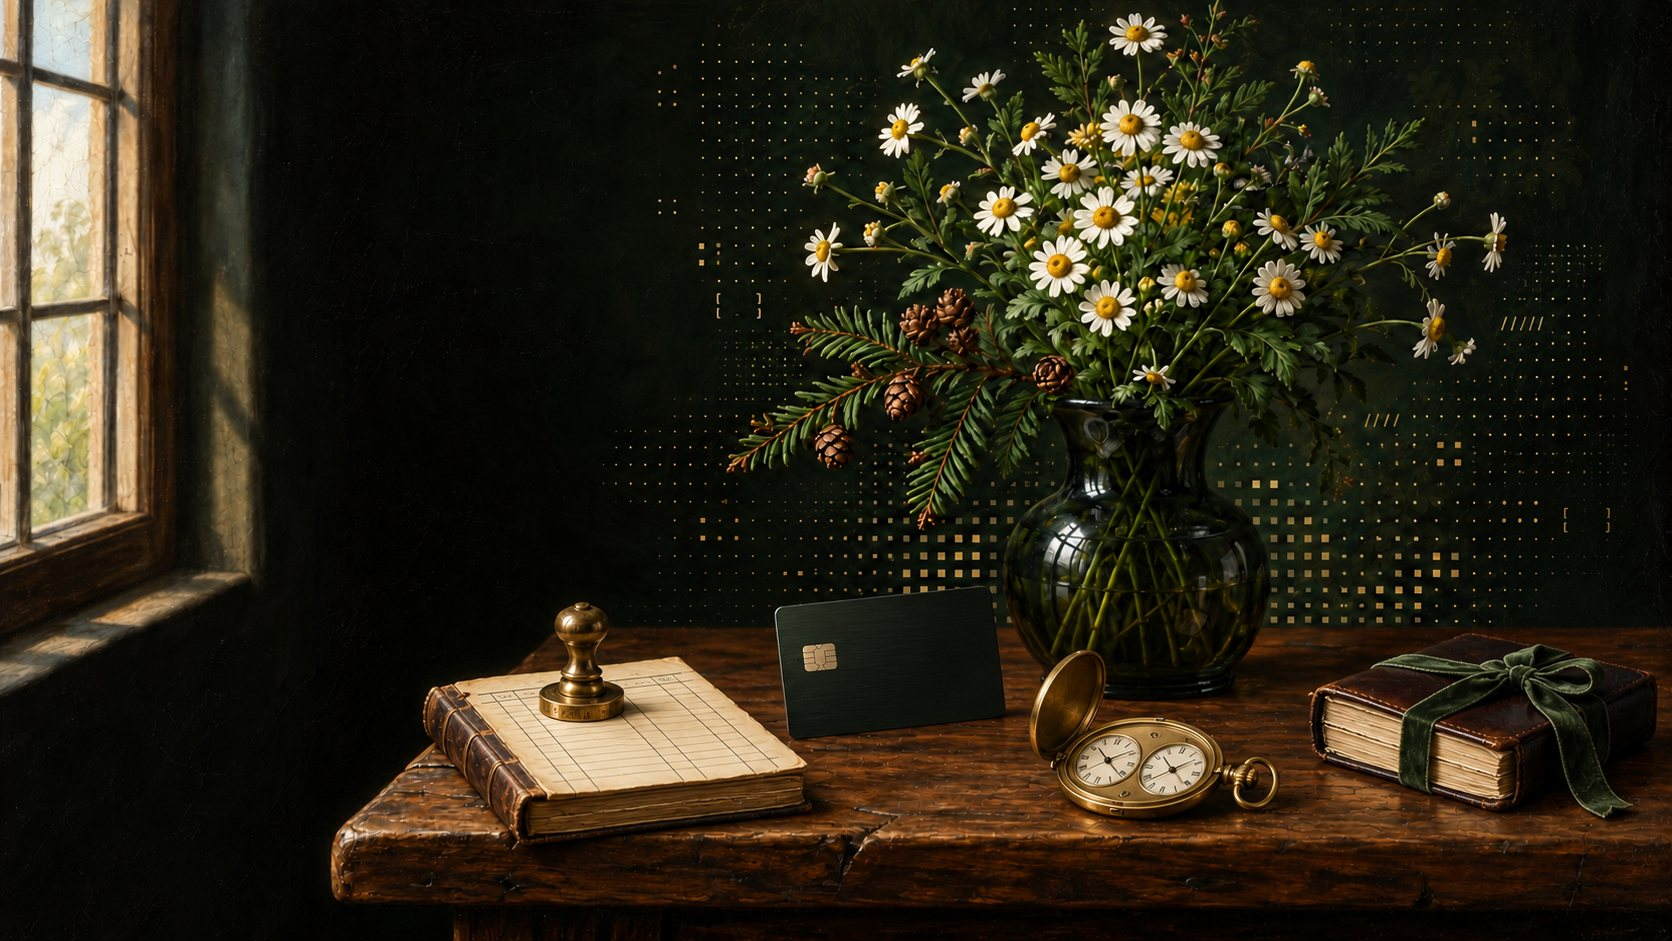
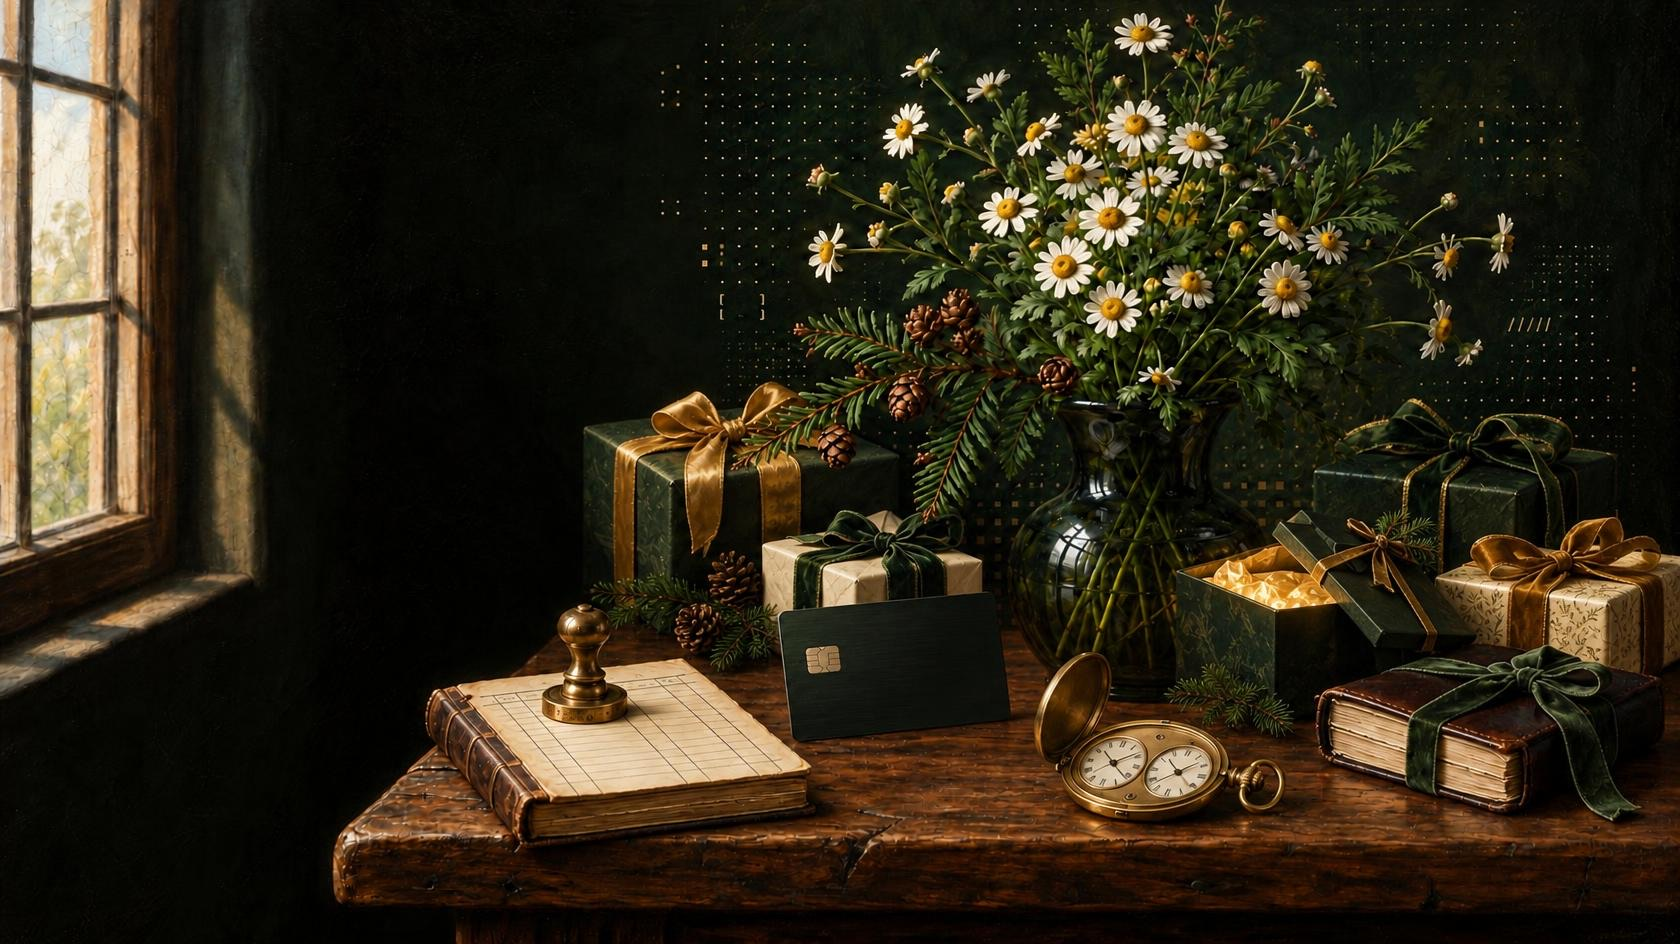
hero: presents on the table

diff --git a/x7land/index.html b/x7land/index.html
@@ -26,7 +26,7 @@ nav .links .btn{padding:9px 18px;font-size:13px;color:var(--ink)}
 .story{position:relative;height:100vh}
 .stage{position:sticky;top:0;height:100vh;overflow:hidden}
 .stage .layer{position:absolute;inset:0;background-size:cover;background-position:60% 50%;will-change:transform,opacity}
-#paint{background-image:url(a/still.jpg)}
+#paint{background-image:url(a/still.jpg?v=2)}
 .stage canvas{position:absolute;inset:0;width:100%;height:100%;opacity:0}
 .shade{position:absolute;inset:0;background:linear-gradient(90deg,rgba(11,42,34,.94) 0%,rgba(11,42,34,.72) 34%,rgba(11,42,34,.08) 62%,rgba(11,42,34,0) 100%),linear-gradient(0deg,rgba(11,42,34,.7),rgba(11,42,34,0) 30%)}
 .copy{position:absolute;left:5vw;top:50%;transform:translateY(-50%);max-width:560px;transition:opacity .5s,transform .5s}
